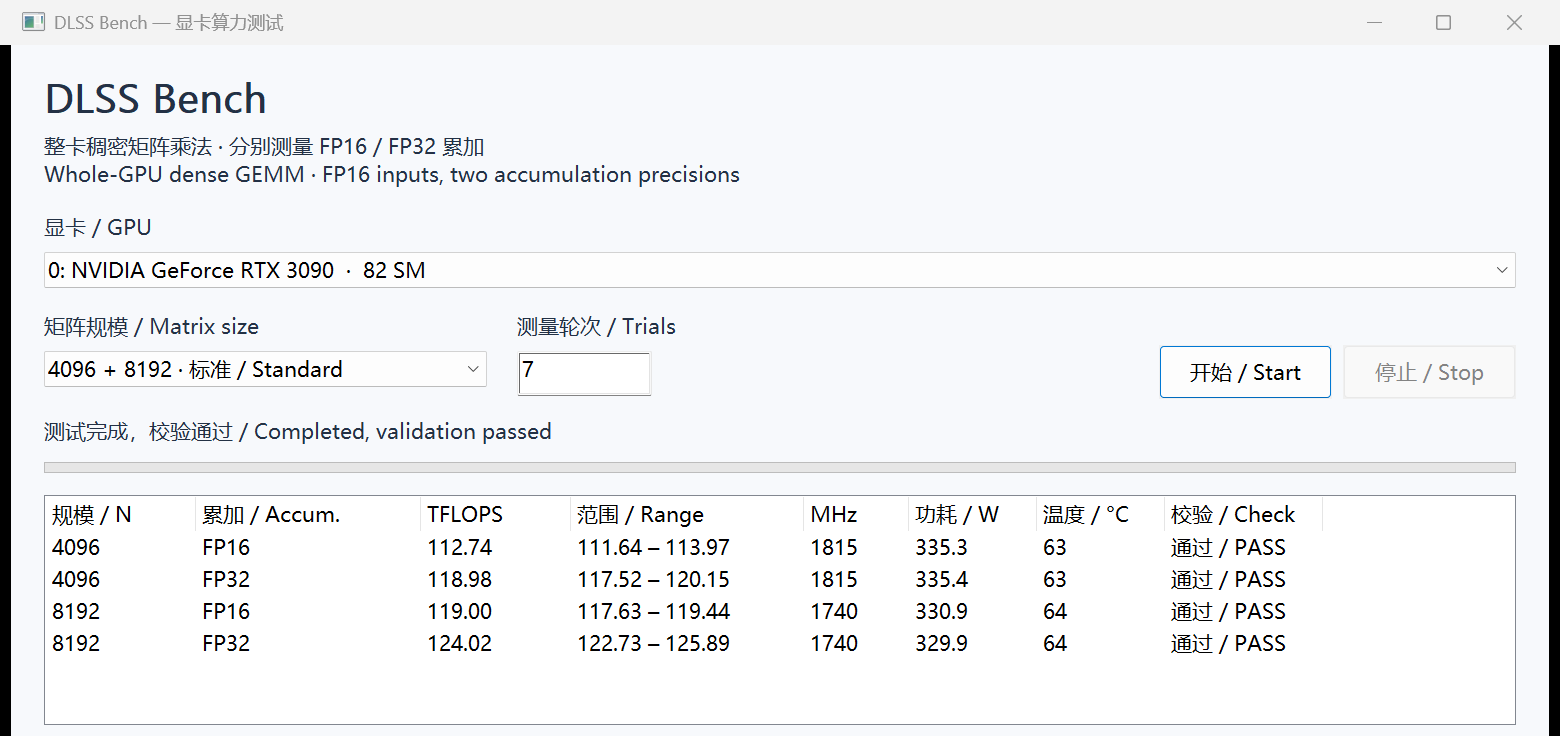
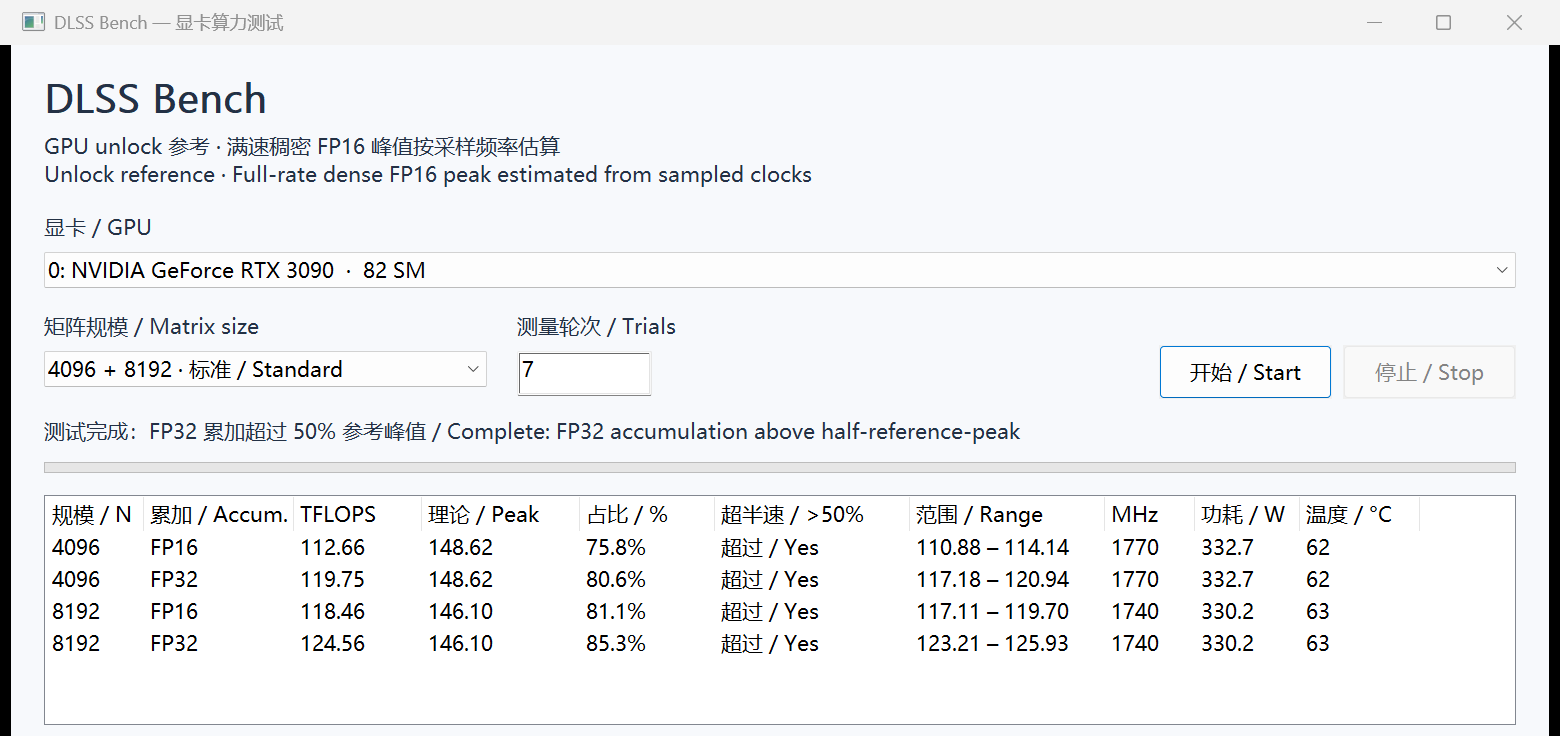
Show reference peak percentage and half-rate comparison

diff --git a/src/app.cpp b/src/app.cpp
@@ -78,7 +78,7 @@ struct App {
             OUT_DEFAULT_PRECIS,CLIP_DEFAULT_PRECIS,CLEARTYPE_QUALITY,DEFAULT_PITCH,L"Segoe UI");
         title = control(L"STATIC", L"DLSS Bench", SS_LEFT);
         SendMessageW(title, WM_SETFONT, WPARAM(title_font), TRUE);
-        subtitle = control(L"STATIC", L"整卡稠密矩阵乘法 · 分别测量 FP16 / FP32 累加\r\nWhole-GPU dense GEMM · FP16 inputs, two accumulation precisions", SS_LEFT);
+        subtitle = control(L"STATIC", L"GPU unlock 参考 · 满速稠密 FP16 峰值按采样频率估算\r\nUnlock reference · Full-rate dense FP16 peak estimated from sampled clocks", SS_LEFT);
         gpu_label = control(L"STATIC", L"显卡 / GPU", SS_LEFT);
         device = control(WC_COMBOBOXW,L"",CBS_DROPDOWNLIST | WS_TABSTOP | WS_VSCROLL,DeviceChoice);
         size_label = control(L"STATIC", L"矩阵规模 / Matrix size",SS_LEFT);
@@ -97,15 +97,16 @@ struct App {
         table = control(WC_LISTVIEWW,L"",LVS_REPORT | LVS_SINGLESEL | LVS_SHOWSELALWAYS,0,WS_EX_CLIENTEDGE);
         ListView_SetExtendedListViewStyle(table,LVS_EX_FULLROWSELECT | LVS_EX_DOUBLEBUFFER);
         struct Column { const wchar_t* text; int width; } columns[]{
-            {L"规模 / N",100},{L"累加 / Accum.",150},{L"TFLOPS",100},{L"范围 / Range",155},
-            {L"MHz",70},{L"功耗 / W",85},{L"温度 / °C",85},{L"校验 / Check",105}};
+            {L"规模 / N",65},{L"累加 / Accum.",100},{L"TFLOPS",85},{L"理论 / Peak",105},
+            {L"占比 / %",90},{L"超半速 / >50%",130},{L"范围 / Range",130},
+            {L"MHz",60},{L"功耗 / W",70},{L"温度 / °C",80}};
         for (int i = 0; i < int(std::size(columns)); ++i) {
             LVCOLUMNW col{}; col.mask = LVCF_TEXT | LVCF_WIDTH | LVCF_SUBITEM;
             col.pszText = const_cast<wchar_t*>(columns[i].text); col.cx = px(columns[i].width); col.iSubItem = i;
             ListView_InsertColumn(table,i,&col);
         }
         log = control(L"EDIT",L"",ES_MULTILINE | ES_READONLY | ES_AUTOVSCROLL | WS_VSCROLL,0,WS_EX_CLIENTEDGE);
-        footer = control(L"STATIC",L"按当前频率与负载测量；报告自动保存为 JSON / CSV。\r\nResults reflect current clocks and load. Reports are saved automatically.",SS_LEFT);
+        footer = control(L"STATIC",L"未解锁启动中明显超半速，可不再为此解锁；低分仍待判断。\r\nClearly above half without unlock: no need for that cap; lower is inconclusive.",SS_LEFT);
         EnableWindow(start,FALSE); EnableWindow(stop,FALSE);
         try {
             devices = fpbench::enumerate_devices();
@@ -122,6 +123,8 @@ struct App {
                 SetWindowTextW(status,L"准备就绪 / Ready");
             } else SetWindowTextW(status,L"此版本需要 NVIDIA SM 8.6 或更新 GPU / NVIDIA SM 8.6+ required");
             append(L"无需安装 Python 或 CUDA Toolkit / No Python or CUDA Toolkit installation required.");
+            append(L"理论峰值 = SM × 1024 × 采样 MHz / 1000000（SM 8.6 / 8.9）；两种累加使用相同满速 FP16 参考。\r\nPeak = SM × 1024 × sampled MHz / 1000000 (SM 8.6 / 8.9); both modes share the full-rate FP16 reference.");
+            append(L"超半速仅比较吞吐；频率为抽样，临界值不能直接判定是否需要解锁。校验细节保存在报告中。\r\nAbove half compares throughput; sampled clocks make borderline results inconclusive. Correctness details are saved in reports.");
         } catch (const std::exception& error) {
             SetWindowTextW(status,L"无法检测显卡 / GPU detection failed"); append(fpbench::wide(error.what()));
         }
@@ -187,15 +190,29 @@ struct App {
         auto size_text = std::to_wstring(row.n);
         LVITEMW item{}; item.mask = LVIF_TEXT; item.iItem = i; item.pszText = size_text.data();
         ListView_InsertItem(table,&item);
-        std::wstring cells[]{row.half ? L"FP16" : L"FP32", number(row.median), number(row.minimum) + L" – " + number(row.maximum),
-            row.clock < 0 ? L"—" : std::to_wstring(row.clock),number(row.power_w,1),row.temperature < 0 ? L"—" : std::to_wstring(row.temperature),
-            row.valid && row.guards ? L"通过 / PASS" : L"失败 / FAIL"};
+        std::wstring cells[]{row.half ? L"FP16" : L"FP32", number(row.median),
+            row.peak.available ? number(row.peak.full_tflops) : L"—",
+            row.peak.available ? number(row.peak.percent,1) + L"%" : L"—",
+            row.peak.available ? (row.peak.above_half ? L"超过 / Yes" : L"未超过 / No") : L"未知 / N/A",
+            number(row.minimum) + L" – " + number(row.maximum),
+            row.clock < 0 ? L"—" : std::to_wstring(row.clock),number(row.power_w,1),
+            row.temperature < 0 ? L"—" : std::to_wstring(row.temperature)};
         for (int column = 1; column <= int(std::size(cells)); ++column)
             ListView_SetItemText(table,i,column,cells[column-1].data());
     }
     void finished(const fpbench::Report& report) {
         if (worker.joinable()) worker.join(); set_running(false);
-        if (report.status == "completed") SetWindowTextW(status,L"测试完成，校验通过 / Completed, validation passed");
+        if (report.status == "completed") {
+            bool fp32_seen = false, fp32_above = true;
+            for (const auto& row : report.rows) if (!row.half) {
+                fp32_seen = true;
+                fp32_above = fp32_above && row.peak.available && row.peak.above_half;
+            }
+            SetWindowTextW(status,fp32_seen && fp32_above
+                ? L"测试完成：FP32 累加超过 50% 参考峰值 / Complete: FP32 accumulation above half-reference-peak"
+                : L"测试完成：请查看峰值占比，是否需解锁仍待判断 / Complete: review peak %, unlock need is inconclusive");
+            append(L"计算结果抽查与内存保护检查通过；详细结果见 JSON / CSV。\r\nNumerical spot checks and memory guards passed; details are in JSON / CSV.");
+        }
         else if (report.status == "cancelled") SetWindowTextW(status,L"已停止，资源已清理 / Stopped, resources cleaned up");
         else SetWindowTextW(status,L"测试失败，请查看日志 / Test failed; see log");
         if (!report.error.empty()) append(fpbench::wide(report.error));
@@ -234,7 +251,7 @@ LRESULT CALLBACK window_proc(HWND window,UINT message,WPARAM wp,LPARAM lp) {
             ShellExecuteW(window,L"open",folder.c_str(),nullptr,nullptr,SW_SHOWNORMAL); return 0;
         }
         case About:
-            MessageBoxW(window,(L"DLSS Bench 1.0\r\n\r\nWindows + NVIDIA 驱动即可运行。\r\nOnly Windows and the NVIDIA driver are required.\r\n\r\n运行时不需要 Python、CUDA Toolkit 或 cuBLAS。\r\nNo Python, CUDA Toolkit or cuBLAS runtime is required.\r\n\r\n当前版本：SM 8.6 原生内核；更新 GPU 通过驱动 JIT，尚未实测。\r\nNative SM 8.6 kernels; newer GPUs use driver JIT and remain unvalidated.\r\n\r\nEmbedded GEMM kernels derive from Triton's MIT-licensed tutorial.\r\n\r\n" + fpbench::wide(fpbench::license_text())).c_str(),L"关于 / About",MB_OK | MB_ICONINFORMATION); return 0;
+            MessageBoxW(window,(L"DLSS Bench 1.1\r\n\r\nWindows + NVIDIA 驱动即可运行。\r\nOnly Windows and the NVIDIA driver are required.\r\n\r\n运行时不需要 Python、CUDA Toolkit 或 cuBLAS。\r\nNo Python, CUDA Toolkit or cuBLAS runtime is required.\r\n\r\n占比 = 实测 / 满速稠密 FP16 参考峰值；>50% 为比较结果，不自动判定锁定状态。\r\nPeak % = measured / full-rate dense FP16 reference peak; >50% does not automatically detect lock status.\r\n\r\n峰值模型支持 SM 8.6 / 8.9，按批次后采样的 SM 频率估算；临界结果不能直接判断是否需解锁。\r\nPeak model: SM 8.6 / 8.9, using post-batch sampled SM clocks; borderline results are inconclusive.\r\n\r\n当前版本：SM 8.6 原生内核；更新 GPU 通过驱动 JIT，尚未实测。\r\nNative SM 8.6 kernels; newer GPUs use driver JIT and remain unvalidated.\r\n\r\nEmbedded GEMM kernels derive from Triton's MIT-licensed tutorial.\r\n\r\n" + fpbench::wide(fpbench::license_text())).c_str(),L"关于 / About",MB_OK | MB_ICONINFORMATION); return 0;
         case DeviceChoice:
             if (HIWORD(wp) == CBN_SELCHANGE && !app->running) {
                 int i = int(SendMessageW(app->device,CB_GETCURSEL,0,0));

diff --git a/src/benchmark.cpp b/src/benchmark.cpp
@@ -273,7 +273,7 @@ void save(const Report& report) {
     std::ofstream trials(directory / L"trials.csv", std::ios::binary | std::ios::trunc);
     require(bool(json) && bool(summary) && bool(trials), "Unable to write report files");
     json << std::setprecision(15);
-    json << "{\n\"schema_version\":1,\"app\":\"DLSS Bench 1.0\",\"status\":" << quoted(report.status)
+    json << "{\n\"schema_version\":2,\"app\":\"DLSS Bench 1.1\",\"status\":" << quoted(report.status)
          << ",\"started_utc\":" << quoted(report.started) << ",\"finished_utc\":" << quoted(report.finished)
          << ",\"error\":" << quoted(report.error) << ",\"cleanup_ok\":" << (report.cleanup_ok ? "true" : "false")
          << ",\"backend\":" << quoted(report.backend) << ",\"kernel_source_sha256\":\"" << kKernelSourceSha256
@@ -285,8 +285,13 @@ void save(const Report& report) {
          << "\"limitations\":[\"Fixed precompiled GEMM backend, not cuBLAS or an exhaustive peak search\","
          << "\"No matched locked baseline; no unlock speedup inferred\","
          << "\"21 numerical samples checked first and last trial, plus output guards; not exhaustive stability testing\","
-         << "\"NVML readings after each batch have sensor refresh latency\"],\n\"rows\":[";
-    summary << "\xEF\xBB\xBFN,accumulator,median_TFLOPS,min_TFLOPS,max_TFLOPS,median_ms,SM_clock_MHz,power_W,max_temp_C,validation,max_abs_error\r\n";
+          << "\"NVML readings after each batch have sensor refresh latency\","
+          << "\"Peak reference uses median sampled SM clock, not a measured maximum clock\","
+          << "\"Above half-reference-peak is a throughput comparison, not automatic unlock detection\"],"
+          << "\n\"peak_reference\":{\"precision\":\"full-rate dense FP16 accumulation\","
+          << "\"supported_compute_capabilities\":[\"8.6\",\"8.9\"],\"flops_per_sm_cycle\":1024,"
+          << "\"clock_basis\":\"median of post-batch NVML SM-clock samples\"},\n\"rows\":[";
+    summary << "\xEF\xBB\xBFN,accumulator,median_TFLOPS,min_TFLOPS,max_TFLOPS,median_ms,SM_clock_MHz,power_W,max_temp_C,validation,max_abs_error,reference_full_TFLOPS,reference_half_TFLOPS,percent_of_reference_peak,above_half_reference_peak\r\n";
     bool first = true;
     for (const auto& row : report.rows) {
         if (!first) json << ','; first = false;
@@ -296,12 +301,25 @@ void save(const Report& report) {
              << ",\"sm_clock_mhz\":" << row.clock << ",\"power_w\":" << row.power_w << ",\"temperature_c\":" << row.temperature
              << ",\"checked_elements\":" << row.checked << ",\"max_abs_error\":" << row.max_error
              << ",\"validation_passed\":" << (row.valid ? "true" : "false") << ",\"guards_intact\":" << (row.guards ? "true" : "false")
-             << ",\"cubin_sha256\":\"" << row.cubin_hash << "\"}";
+             << ",\"cubin_sha256\":\"" << row.cubin_hash << "\",\"reference_full_tflops\":";
+        if (row.peak.available) json << row.peak.full_tflops; else json << "null";
+        json << ",\"reference_half_tflops\":";
+        if (row.peak.available) json << row.peak.half_tflops; else json << "null";
+        json << ",\"percent_of_reference_peak\":";
+        if (row.peak.available) json << row.peak.percent; else json << "null";
+        json << ",\"above_half_reference_peak\":";
+        if (row.peak.available) json << (row.peak.above_half ? "true" : "false"); else json << "null";
+        json << '}';
         summary << std::setprecision(10) << row.n << ',' << mode << ',' << row.median << ',' << row.minimum << ',' << row.maximum << ',' << row.ms << ',';
         if (row.clock >= 0) summary << row.clock;
         summary << ','; if (row.power_w >= 0) summary << row.power_w;
         summary << ','; if (row.temperature >= 0) summary << row.temperature;
-        summary << ',' << (row.valid ? "PASS" : "FAIL") << ',' << row.max_error << "\r\n";
+        summary << ',' << (row.valid ? "PASS" : "FAIL") << ',' << row.max_error << ',';
+        if (row.peak.available)
+            summary << row.peak.full_tflops << ',' << row.peak.half_tflops << ',' << row.peak.percent << ','
+                    << (row.peak.above_half ? "true" : "false");
+        else summary << ",,,";
+        summary << "\r\n";
     }
     json << "\n],\"trials\":["; first = true;
     trials << "N,accumulator,repetition,order,gemms,batch_ms,ms_per_gemm,TFLOPS,SM_clock_MHz,power_mW,temperature_C\r\n";
@@ -406,6 +424,8 @@ Report run(const Config& config, std::atomic<bool>& stop, Progress progress, Row
                 row.median = median(rates); row.ms = median(times);
                 row.minimum = *std::min_element(rates.begin(), rates.end()); row.maximum = *std::max_element(rates.begin(), rates.end());
                 row.clock = int(median(clocks)); row.power_w = median(powers);
+                row.peak = compare_peak(report.device.major, report.device.minor, report.device.sms,
+                                        row.clock, row.median, row.valid && row.guards);
                 report.rows.push_back(row); save(report); if (ready) ready(row);
             }
             cuda->free_case();

diff --git a/tests/performance_test.cpp b/tests/performance_test.cpp
@@ -1,0 +1,37 @@
+#include "../src/performance.h"
+#include <cstdio>
+#include <limits>
+#include <stdexcept>
+
+int main() {
+    try {
+        auto check = [](bool ok) { if (!ok) throw std::runtime_error("Peak comparison check failed"); };
+        auto close = [&](double a, double b) { check(std::abs(a - b) < 1e-9); };
+        const auto reference = fpbench::compare_peak(8, 6, 82, 1695, 124.02, true);
+        check(reference.available && reference.above_half);
+        close(reference.full_tflops, 142.325760);
+        close(reference.half_tflops, 71.162880);
+        const auto at_half = fpbench::compare_peak(8, 6, 82, 1695, 71.162880, true);
+        check(at_half.available && !at_half.above_half);
+        close(at_half.percent, 50);
+        check(fpbench::compare_peak(8, 6, 82, 1695, 71.162881, true).above_half);
+        check(!fpbench::compare_peak(8, 6, 82, 1695, 71.162879, true).above_half);
+        close(fpbench::compare_peak(8, 6, 28, 1777, 40, true).full_tflops, 50.950144);
+        close(fpbench::compare_peak(8, 9, 128, 2520, 200, true).full_tflops, 330.301440);
+        check(!fpbench::compare_peak(9, 0, 132, 1800, 100, true).available);
+        check(!fpbench::compare_peak(8, 6, 82, -1, 100, true).available);
+        check(!fpbench::compare_peak(8, 6, 82, 0, 100, true).available);
+        check(!fpbench::compare_peak(8, 6, 0, 1800, 100, true).available);
+        check(!fpbench::compare_peak(8, 6, 82, 1800, 100, false).available);
+        check(!fpbench::compare_peak(8, 6, 82, 1800, -1, true).available);
+        check(!fpbench::compare_peak(8, 6, 82, 1800, std::numeric_limits<double>::infinity(), true).available);
+        check(!fpbench::compare_peak(8, 6, 82, 1800, std::numeric_limits<double>::quiet_NaN(), true).available);
+        const auto zero = fpbench::compare_peak(8, 6, 82, 1800, 0, true);
+        check(zero.available && !zero.above_half && zero.percent == 0);
+        puts("Peak reference and boundary checks passed.");
+        return 0;
+    } catch (const std::exception& error) {
+        puts(error.what());
+        return 1;
+    }
+}

diff --git a/src/performance.h b/src/performance.h
@@ -1,0 +1,24 @@
+#pragma once
+#include <cmath>
+
+namespace fpbench {
+struct PeakComparison {
+    bool available = false, above_half = false;
+    double full_tflops = 0, half_tflops = 0, percent = 0;
+};
+
+// Full-rate dense FP16 accumulation, with a multiply-add counted as two ops.
+// Keep unfamiliar architectures unavailable instead of extrapolating a rate.
+inline PeakComparison compare_peak(int major, int minor, int sms, int clock_mhz,
+                                   double tflops, bool validated) {
+    PeakComparison result;
+    if (!(major == 8 && (minor == 6 || minor == 9)) || sms <= 0 || clock_mhz <= 0 ||
+        !validated || !std::isfinite(tflops) || tflops < 0) return result;
+    result.available = true;
+    result.full_tflops = double(sms) * 1024 * clock_mhz / 1e6;
+    result.half_tflops = result.full_tflops / 2;
+    result.percent = 100 * tflops / result.full_tflops;
+    result.above_half = tflops > result.half_tflops;
+    return result;
+}
+}

diff --git a/src/benchmark.h b/src/benchmark.h
@@ -4,6 +4,7 @@
 #include <functional>
 #include <string>
 #include <vector>
+#include "performance.h"
 
 namespace fpbench {
 struct Device {
@@ -28,6 +29,7 @@ struct Row {
     bool half = true, valid = false, guards = false;
     double median = 0, minimum = 0, maximum = 0, ms = 0, power_w = -1, max_error = 0;
     std::string cubin_hash;
+    PeakComparison peak;
 };
 struct Report {
     Device device;

diff --git a/README.md b/README.md
@@ -4,21 +4,21 @@
 
 A native Windows benchmark to measure Tensor Core throughput before attempting GPU unlock and help decide whether the relevant throughput limit needs unlocking. Users only need Windows x64 and a compatible NVIDIA driver.
 
-[下载 Windows 预览版 / Download Windows preview](https://github.com/cloudvisionx/DLSSBench/releases/tag/v1.0.0)
+[下载 Windows 预览版 / Download Windows preview](https://github.com/cloudvisionx/DLSSBench/releases/tag/v1.1.0)
 
 ![DLSS Bench：RTX 3090 实测界面 / Actual benchmark results on RTX 3090](docs/images/dlss-bench.png)
 
-RTX 3090 实测截图：FP16 输入，分别使用 FP16 / FP32 累加，每项 7 轮。截图来自一次运行，不是解锁前后对照。
+RTX 3090 实测截图：FP16 输入，分别使用 FP16 / FP32 累加，每项 7 轮。1.1 界面直接显示理论峰值、实测占比和是否超过 50%；截图来自一次运行，不是解锁前后对照。
 
-Actual RTX 3090 screenshot: FP16 inputs, separate FP16 / FP32 accumulation, seven trials per configuration. This is one run, not a before/after unlock comparison.
+Actual RTX 3090 screenshot: FP16 inputs, separate FP16 / FP32 accumulation, seven trials per configuration. Version 1.1 shows the reference peak, measured percentage and whether throughput exceeds 50%. This is one run, not a before/after unlock comparison.
 
 ## 下载与运行 / Download and run
 
-1. 打开本仓库的 **Releases** 页面，下载 `DLSSBench-1.0-win64.zip`。
+1. 打开本仓库的 **Releases** 页面，下载 `DLSSBench-1.1-win64.zip`。
 2. 解压后双击 `DLSSBench.exe`，选择 GPU，点击 **开始 / Start**。
 3. 点击 **Reports** 查看自动保存的 JSON / CSV。
 
-Download `DLSSBench-1.0-win64.zip` from **Releases**, extract it, and run `DLSSBench.exe`. Select a GPU and click **Start**. **Reports** opens the saved JSON and CSV files.
+Download `DLSSBench-1.1-win64.zip` from **Releases**, extract it, and run `DLSSBench.exe`. Select a GPU and click **Start**. **Reports** opens the saved JSON and CSV files.
 
 无需安装 Python、CUDA Toolkit、cuBLAS、Qt 或 VC++ Redistributable。程序内置计算内核与 C++ 运行时代码。
 
@@ -29,9 +29,10 @@ No separate Python, CUDA Toolkit, cuBLAS, Qt or Visual C++ Redistributable insta
 - 稠密矩阵乘法 `C = A × B`，FP16 输入与输出，分别使用 FP16 和 FP32 累加。
 - 原生中英文界面，可选择显卡、矩阵规模和测量轮次。
 - 显示 TFLOPS、逐轮范围及可用的驱动传感器数据。
-- 输出位置抽查、内存保护区检查，以及可取消的后台测试。
+- 显示满速稠密 FP16 理论峰值、实测占比和是否超过该峰值的 50%。
+- 后台保留输出位置抽查、内存保护区检查和取消功能；正确性细节写入报告。
 
-Dense FP16-input/output GEMM with separate FP16 and FP32 accumulation. The bilingual GUI supports GPU/size/trial selection, cancellation, sampled numerical checks, memory guards and JSON/CSV export.
+Dense FP16-input/output GEMM with separate FP16 and FP32 accumulation. The bilingual GUI shows throughput, the full-rate dense FP16 reference peak, peak percentage and the >50% comparison. Numerical spot checks and memory guards remain active, with details in JSON/CSV reports.
 
 名称为 DLSS Bench；当前版本测量矩阵计算吞吐，不测量 DLSS 游戏帧率或图像质量。
 
@@ -49,13 +50,13 @@ The current version measures matrix-compute throughput. It does not benchmark DL
 
 Check **FP16 and FP32 accumulation separately**; both use FP16 inputs. A low or borderline score is inconclusive because clocks, power, temperature, background load, matrix size and kernel efficiency also affect throughput. A high post-unlock score describes the current boot; deciding whether unlock can be skipped requires a boot in which no unlock tool has run.
 
-以 RTX 3090 为例：在 1740 MHz 参考频率下，常规 FP32 累加半速上限约 **73.05 TFLOPS**；截图中的同项实测约 **124.02 TFLOPS**。这展示了如何比较受限水平，不能把 73.05 当作所有显卡、所有频率的固定阈值。
+以 RTX 3090 为例：在 1740 MHz 参考频率下，满速稠密 FP16 峰值为 **146.10 TFLOPS**，其一半约为 **73.05 TFLOPS**；截图的 FP32 累加实测约 **124.56 TFLOPS / 85.3%**。两种累加共用满速 FP16 参考，不能把受限 FP32 累加峰值当成分母。73.05 不是所有显卡、所有频率的固定阈值。
 
-For an RTX 3090 at a reference clock of 1740 MHz, the usual half-rate FP32-accumulation ceiling is about **73.05 TFLOPS**, versus **124.02 TFLOPS** in the screenshot. This illustrates the comparison; 73.05 is not a universal cutoff for other GPUs or clocks.
+For an RTX 3090 at a reference clock of 1740 MHz, the full-rate dense FP16 peak is **146.10 TFLOPS** and half is about **73.05 TFLOPS**. The screenshot reports **124.56 TFLOPS / 85.3%** for FP32 accumulation. Both modes share the full-rate FP16 reference; the denominator is not the capped FP32 peak. 73.05 is not a universal cutoff for other GPUs or clocks.
 
-当前版本提供性能证据，需人工对照，不会自动判定锁定状态，也不会执行 unlock。频率上界、计算公式及判断边界见 [GPU unlock 判断指南](docs/GPU_UNLOCK_CHECK.md)。
+1.1 自动计算 SM 8.6 / 8.9 的峰值占比；缺少有效频率或未建立架构模型时显示未知。频率为 NVML 批次后采样，因此这是参考比较，不会自动判定锁定状态，也不会执行 unlock。频率上界、计算公式及判断边界见 [GPU unlock 判断指南](docs/GPU_UNLOCK_CHECK.md)。
 
-The current version provides performance evidence for manual interpretation; it does not automatically detect lock status or perform an unlock. See the [GPU unlock decision guide](docs/GPU_UNLOCK_CHECK.md) for clock bounds, formulas and interpretation limits.
+Version 1.1 computes peak percentages for SM 8.6 / 8.9; missing clocks or an unknown architecture model produce an unavailable result. Clocks are post-batch NVML samples, so this is a reference comparison, not automatic lock detection. The app does not perform an unlock. See the [GPU unlock decision guide](docs/GPU_UNLOCK_CHECK.md) for clock bounds, formulas and interpretation limits.
 
 ## 兼容性与结果解释 / Compatibility and interpretation
 

diff --git a/docs/BUILD.md b/docs/BUILD.md
@@ -43,23 +43,24 @@ Only kernel developers need Python, Triton and `nvdisasm`. The reference compile
 
 ## 验证 / Verification
 
-普通 GUI 操作：双击生成的 EXE，点击 Start，查看数值检查和 Reports。
+普通 GUI 操作：双击生成的 EXE，点击 Start，查看峰值占比和 Reports。
 
 ```powershell
+powershell -NoProfile -ExecutionPolicy Bypass -File tools\test_performance.ps1
 powershell -NoProfile -ExecutionPolicy Bypass -File tools\test_gui.ps1
 ```
 
-GUI 验收脚本会执行实际 GPU 测试，检查完成、计时期间取消、资源清理和加载的模块，并保存界面截图。它要求当前 Windows 桌面可交互、有支持的 NVIDIA GPU 和驱动。输出在 `build\qa` 的新目录。该脚本使用 Windows 自带的 PowerShell / .NET，不随成品运行。
+峰值比较单元检查不执行 GPU 工作，覆盖规格计算、50% 边界、无频率、未知架构和无效结果。GUI 验收脚本会执行实际 GPU 测试，检查完成、计时期间取消、资源清理和加载的模块，并保存界面截图。它要求当前 Windows 桌面可交互、有支持的 NVIDIA GPU 和驱动。输出在 `build\qa` 的新目录。该脚本使用 Windows 自带的 PowerShell / .NET，不随成品运行。
 
-The GUI QA script runs actual GPU work, checks completion/cancellation/cleanup and module dependencies, and captures the window. It requires an interactive Windows desktop and supported NVIDIA GPU/driver. Evidence is saved under `build\qa`.
+The peak-reference checks run without GPU work and cover specification arithmetic, the 50% boundary, missing clocks, unknown architectures and invalid results. GUI QA runs actual GPU work, checks completion/cancellation/cleanup and module dependencies, and captures the window. It requires an interactive Windows desktop and supported NVIDIA GPU/driver. Evidence is saved under `build\qa`.
 
 ## 源码与发布版 / Source and release
 
-`src` 与 `kernels\fp16_native_kernel.py` 对应已发布的 1.0 预览版实现。导出时保留源码字节和已验证的内核头文件；生成 manifest 记录对应哈希。构建入口已改为独立仓库路径。
+当前应用源码包含 1.1 的峰值占比界面和报告字段。GPU 内核沿用 1.0 的已验证实现及生成头文件，没有更改矩阵计算或计时边界。manifest 中的 `release_application_source_sha256` 保留原始 1.0 源码哈希，不是当前应用源码哈希；原始源码可见 [1.0 源码提交](https://github.com/cloudvisionx/DLSSBench/tree/c5a52ceb1c448644d864d722b717805d8dfe9887)。
 
 当前构建脚本不生成 PDB；既有 1.0 EXE 使用开发构建的调试链接参数。MSVC 版本、链接参数、时间戳和文件路径可能使重新构建的 EXE 哈希不同，因此不宣称逐字节可重复构建。
 
-The app and kernel sources correspond to the published 1.0 implementation. Exported source bytes and the validated generated kernel header are preserved; `.gitattributes` prevents line-ending conversion from invalidating their manifest hashes. The standalone build omits PDB generation; the original release used debug link flags. Toolchain, linker settings, timestamps and paths can change the EXE hash, so this is not a claim of byte-for-byte reproducible builds.
+Current app sources include the 1.1 peak-percentage UI and report fields. Validated GPU kernels and timing boundaries are retained from 1.0. The manifest's `release_application_source_sha256` records the original 1.0 sources, not the current app. `.gitattributes` preserves source/header bytes. The standalone build omits PDB generation; the original release used debug link flags. Toolchain, linker settings, timestamps and paths can change the EXE hash, so this is not a claim of byte-for-byte reproducible builds.
 
 Triton 的 PTX / cubin 含源码路径等调试元数据，移动目录后重建可能改变文件哈希。此次独立目录重建已检查八组真实 SASS 指令，与原始构建一致；文件哈希不作为跨目录重建的相等条件。
 

diff --git a/docs/GPU_UNLOCK_CHECK.md b/docs/GPU_UNLOCK_CHECK.md
@@ -17,6 +17,23 @@ Run the default 4096 + 8192 test with seven trials per configuration in a boot w
 
 Both tests use FP16 inputs and outputs, with different accumulator precisions. The embedded SM 8.6 kernels were verified as `HMMA.16816.F16` and `HMMA.16816.F32`. **Full-rate FP16 accumulation does not establish unrestricted FP32 accumulation.** Similar scores alone are also insufficient because another bottleneck can slow both modes.
 
+## 1.1 界面字段 / Version 1.1 result columns
+
+| 字段 / Column | 含义 / Meaning |
+| --- | --- |
+| TFLOPS | 本项实测中位数 / Measured median throughput |
+| 理论 / Peak | 按中位采样 SM 频率估算的满速稠密 FP16 峰值 / Full-rate dense FP16 peak at the median sampled SM clock |
+| 占比 / % | `100 × 实测 TFLOPS / 理论峰值` / Measured throughput as a percentage of the reference peak |
+| 超半速 / >50% | 实测是否严格大于参考峰值的一半 / Whether throughput strictly exceeds half the reference peak |
+
+两种累加模式使用相同的满速 FP16 分母。SM 8.6 / 8.9 采用每 SM 每周期 1024 FLOPs；缺少有效频率或架构没有对应模型时显示 `— / 未知`，不会猜测。超过 50% 是这组参考数值的算术比较，贴近 50% 时尤其需要检查频率范围和波动。
+
+Both accumulation modes use the same full-rate FP16 denominator. The model uses 1024 FLOPs per SM per cycle for SM 8.6 / 8.9. Missing clocks or an unknown architecture model show an unavailable result. Above 50% is an arithmetic comparison with that reference; results close to 50% especially require checking clock ranges and variation.
+
+正确性抽查与内存保护检查仍执行，失败时终止测试；细节保存在日志及 JSON / CSV 中。表格不再用“校验通过”作为是否需要 unlock 的提示。
+
+Numerical spot checks and memory guards still run and abort the test on failure. Details are in the log and JSON / CSV; the table no longer uses a correctness PASS field as an unlock-related indication.
+
 ## RTX 3090 计算示例 / RTX 3090 worked example
 
 以下公式限定于此处讨论的 GA10x / RTX 30 系稠密 FP16 Tensor 路径。其他架构、精度及指令应另行核对，不能直接套用。
@@ -36,8 +53,8 @@ An RTX 3090 has 82 SMs. Using 1740 MHz as a reference:
 | --- | ---: |
 | 满速 FP16 累加理论峰值 / Full-rate FP16-accumulation theoretical peak | 146.10 |
 | 常规半速 FP32 累加理论峰值 / Usual half-rate FP32-accumulation theoretical peak | 73.05 |
-| 截图 N=8192，FP16 累加中位数 / Screenshot FP16-accumulation median | 119.00 |
-| 截图 N=8192，FP32 累加中位数 / Screenshot FP32-accumulation median | 124.02 |
+| 截图 N=8192，FP16 累加中位数 / Screenshot FP16-accumulation median | 118.46 |
+| 截图 N=8192，FP32 累加中位数 / Screenshot FP32-accumulation median | 124.56 |
 
 ![RTX 3090 跑分截图 / RTX 3090 benchmark screenshot](images/dlss-bench.png)
 
@@ -59,4 +76,6 @@ The screenshot is from one GUI validation run on 2026-10-28. Both N=8192 rows sh
 
 - [NVIDIA Ampere GA102 architecture whitepaper](https://www.nvidia.com/content/PDF/nvidia-ampere-ga-102-gpu-architecture-whitepaper-v2.pdf), page 25, Table 6: dense FP16-accumulation throughput and its distinction from sparse throughput.
 - [Zagitta/gpu-unlock](https://github.com/Zagitta/gpu-unlock): upstream description of the FP32-accumulation rate limit and unlock mechanism.
+- [NVIDIA Ada architecture whitepaper](https://images.nvidia.com/aem-dam/Solutions/geforce/ada/nvidia-ada-gpu-architecture.pdf): dense FP16 Tensor throughput for SM 8.9.
+- [Peak-reference model](../src/performance.h): architecture scope, clock handling and the strict half-peak comparison.
 - [Benchmark kernel](../kernels/fp16_native_kernel.py) and [generated manifest](../kernels/generated/manifest.json): accumulation variants and the checked SM 8.6 HMMA instructions.
